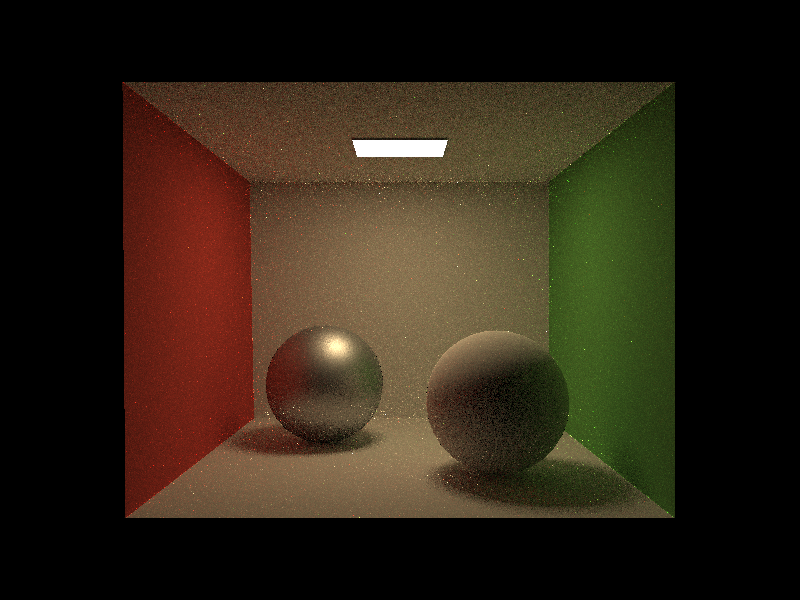
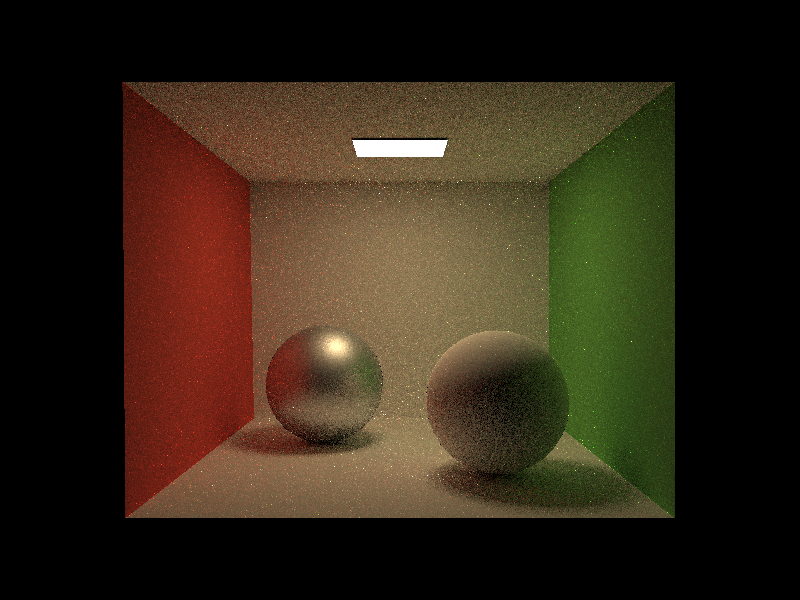
Corrected Bidirectional MIS tracer.

Changed region(s): [[0.25, 0.18, 0.625, 0.33], [0.3125, 0.57, 0.5938, 0.81], [0.3125, 0.54, 0.3438, 0.57]]

diff --git a/src/pathtracer.cpp b/src/pathtracer.cpp
@@ -248,21 +248,21 @@ e8::unidirect_pathtracer::transport_subpath(e8util::vec3 const& src_rad,
 }
 
 float
-e8::unidirect_pathtracer::subpath_density(e8util::vec3 const& src_normal,
+e8::unidirect_pathtracer::subpath_density(float src_dens,
                                           sampled_pathlet const* sampled_path,
                                           unsigned sub_path_len) const
 {
         if (sub_path_len == 0)
                 return 0.0f;
         float dens = sampled_path[0].dens*
-                        src_normal.inner(sampled_path[0].o)*
+                        src_dens*
                         sampled_path[0].vert.normal.inner(-sampled_path[0].o)/
                         (sampled_path[0].vert.t*sampled_path[0].vert.t);
-        for (unsigned k = 1; k < sub_path_len; k ++) {
+        for (unsigned k = 0; k < sub_path_len - 1; k ++) {
                 dens *= sampled_path[k].dens*
-                                sampled_path[k-1].vert.normal.inner(sampled_path[k].o)*
-                                sampled_path[k].vert.normal.inner(-sampled_path[k].o)/
-                                (sampled_path[k].vert.t*sampled_path[k].vert.t);
+                                //sampled_path[k].vert.normal.inner(sampled_path[k].o)*
+                                sampled_path[k + 1].vert.normal.inner(-sampled_path[k + 1].o)/
+                                (sampled_path[k + 1].vert.t*sampled_path[k + 1].vert.t);
         }
         return dens;
 }
@@ -508,16 +508,10 @@ e8::bidirect_mis_pathtracer::sample_all_subpaths(sampled_pathlet const* cam_path
                                                              i,
                                                              false)/cam_path[0].dens;
 
-                                if (path_rad != 0.0f) {
-                                        e8util::vec3 join_path = light_p - cam_path[i].vert.vertex;
-                                        float join_path_dist = join_path.norm();
-                                        join_path = join_path/join_path_dist;
-                                        weight = subpath_density(cam_path[0].o, cam_path, i + 1)*
-                                                        cam_path[i].vert.normal.inner(join_path)*
-                                                        light_n.inner(-join_path)/(join_path_dist*join_path_dist);
-                                } else {
-                                        weight = 0.0f;
-                                }
+                                e8util::vec3 join_path = light_p - cam_path[i].vert.vertex;
+                                float join_path_dist = join_path.norm();
+                                join_path = join_path/join_path_dist;
+                                weight = subpath_density(1.0f, cam_path, i + 1)*dens;
                         } else {
                                 e8util::vec3 join_path = cam_path[i].vert.vertex - light_path[j - 1].vert.vertex;
                                 float distance = join_path.norm();
@@ -527,9 +521,9 @@ e8::bidirect_mis_pathtracer::sample_all_subpaths(sampled_pathlet const* cam_path
                                 float cos_wo = light_path[j].vert.normal.inner(join_path);
                                 float cos_wi = cam_path[i].vert.normal.inner(-join_path);
                                 float t;
-                                if (cos_wo > 0.0f ||
-                                                cos_wi > 0.0f ||
-                                                cos_w2 > 0.0f ||
+                                if (cos_wo > 0.0f &&
+                                                cos_wi > 0.0f &&
+                                                cos_w2 > 0.0f &&
                                                 !scene->has_intersect(join_ray, 1e-4f, distance - 1e-3f, t)) {
                                         // compute light transportation for light subpath.
                                         e8util::vec3 light_illum = light->emission(light_path[0].o, light_n)/(light_path[0].dens*pdf_light_w);
@@ -550,13 +544,13 @@ e8::bidirect_mis_pathtracer::sample_all_subpaths(sampled_pathlet const* cam_path
                                                                      cam_path,
                                                                      i + 1,
                                                                      false)/cam_path[0].dens;
-                                        float cam_weight = subpath_density(cam_path[0].o, cam_path, i + 1);
-                                        float light_weight = subpath_density(light_n, light_path, j);
-                                        weight = cam_weight*light_weight*cos_wi*cos_wo/(distance*distance);
-                                } else {
-                                        weight = 0.0f;
                                 }
+
+                                float cam_weight = subpath_density(1.0f, cam_path, i + 1);
+                                float light_weight = subpath_density(pdf_light_w, light_path, j);
+                                weight = cam_weight*light_weight*pdf_light_w;
                         }
+
                         weights[i + j + 2] += weight;
                         subpath_rads[i + j + 2] += path_rad*weight;
                 }

diff --git a/src/pathtracer.h b/src/pathtracer.h
@@ -133,7 +133,7 @@ protected:
                                                           sampled_pathlet const* sampled_path,
                                                           unsigned sub_path_len,
                                                           bool is_forward) const;
-        float                           subpath_density(e8util::vec3 const& src_normal,
+        float                           subpath_density(float src_dens,
                                                         sampled_pathlet const* sampled_path,
                                                         unsigned sub_path_len) const;
         e8util::vec3                    sample_indirect_illum(e8util::rng& rng,

diff --git a/test/testbidirectmisrenderer.cpp b/test/testbidirectmisrenderer.cpp
@@ -36,7 +36,7 @@ test::test_bidirect_mis_renderer::run() const
         e8::img_file_frame img("test_bidirect_mis.png", width, height);
         e8::clamp_compositor com(width, height);
 
-        for (unsigned i = 0; i < 1; i ++)
+        for (unsigned i = 0; i < 10; i ++)
                 r.render(&scene, cam, &com);
 
         com.commit(&img);
